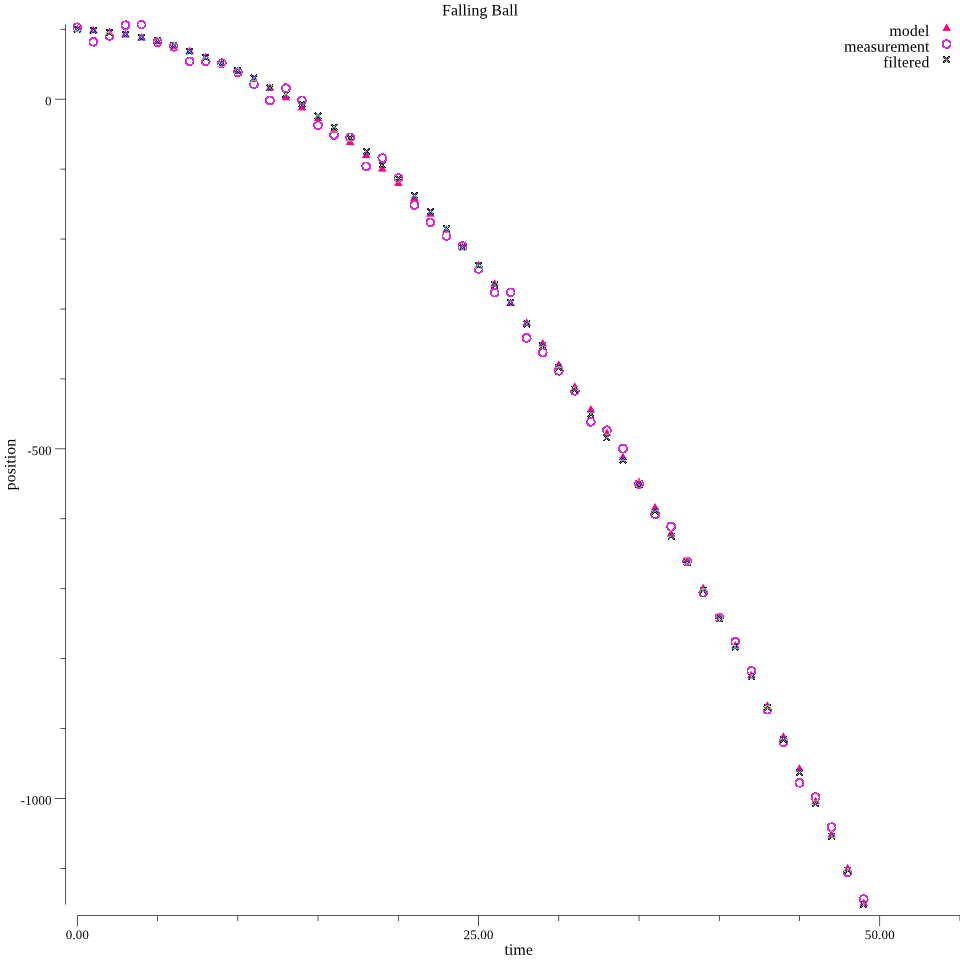
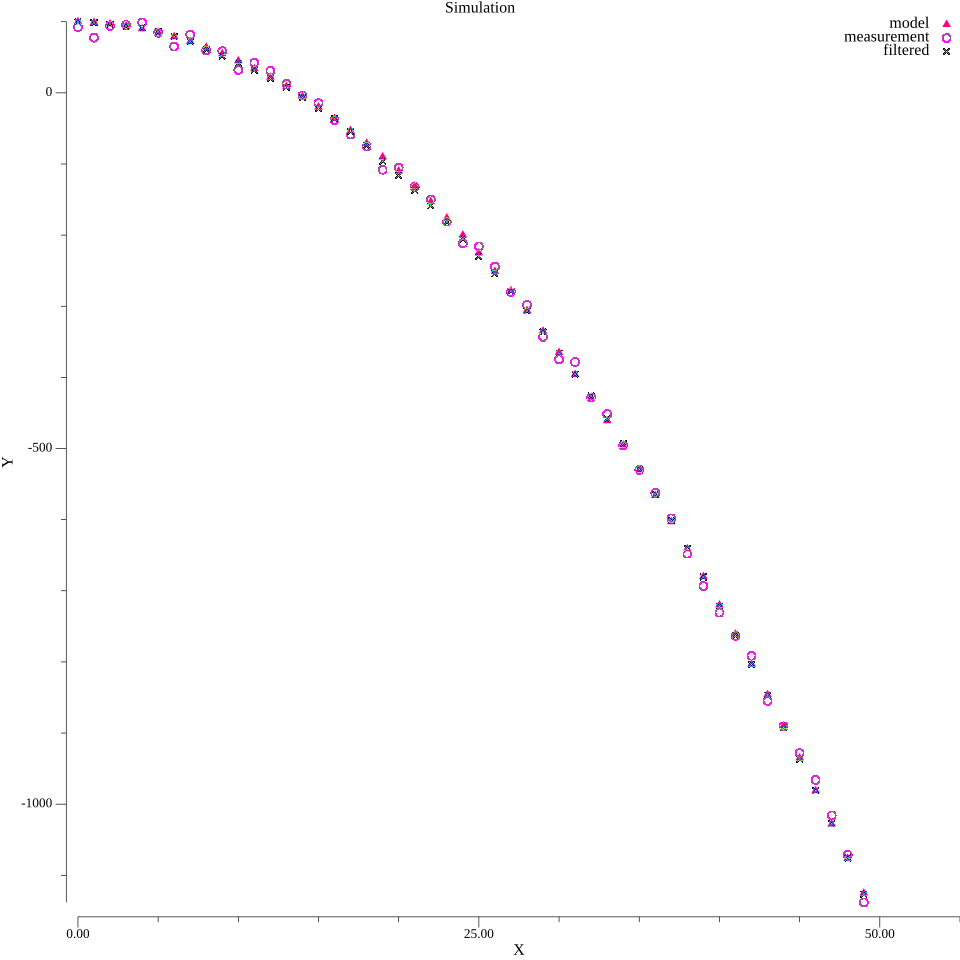
update Falling ball model to use ODEs

diff --git a/kf/kf.go b/kf/kf.go
@@ -5,6 +5,7 @@ import (
 	"log"
 
 	filter "github.com/milosgajdos/go-estimate"
+	"github.com/milosgajdos/go-estimate-examples/fallingball"
 	"github.com/milosgajdos/go-estimate/estimate"
 	"github.com/milosgajdos/go-estimate/kalman/kf"
 	"github.com/milosgajdos/go-estimate/noise"
@@ -15,42 +16,44 @@ import (
 )
 
 func main() {
-	A := mat.NewDense(2, 2, []float64{1.0, 1.0, 0.0, 1.0})
-	B := mat.NewDense(2, 1, []float64{0.5, 1.0})
-	C := mat.NewDense(1, 2, []float64{1.0, 0.0})
-	D := mat.NewDense(1, 1, []float64{0.0})
 
+	// A := mat.NewDense(2, 2, []float64{1.0, 1.0, 0.0, 1.0})
+	// B := mat.NewDense(2, 1, []float64{0.5, 1.0})
+	// C := mat.NewDense(1, 2, []float64{1.0, 0.0})
+	// D := mat.NewDense(1, 1, []float64{0.0})
+
+	// every second the system is advanced
+	dt := 1.0
 	// ball is the model of the system we will simulate
-	ball, err := sim.NewBaseModel(A, B, C, D)
-	if err != nil {
-		log.Fatalf("Failed to created ball: %v", err)
-	}
-
+	// E matrix is not implemented in go-estimate as of yet so is passed as nil
+	ball := fallingball.InputModel(dt)
+	// dimensions of system. nx is state vector length. ny is output vector length. nu is input vector length.
+	var nx, nu, ny, _ = ball.SystemDims()
 	// number of simulation steps
 	steps := 50
-
+	fmt.Println(nx, ny, nu)
 	// modelOut measurements i.e. true model output state
-	modelOut := mat.NewDense(steps, 2, nil)
+	modelOut := mat.NewDense(steps, nx, nil)
 
 	// output measurement i.e. output + error
-	measOut := mat.NewDense(steps, 2, nil)
+	measOut := mat.NewDense(steps, nx, nil)
 
 	// measurement noise used to simulate real system
-	measCov := mat.NewSymDense(1, []float64{100.0})
+	measCov := mat.NewSymDense(ny, []float64{100.0})
 	measNoise, err := noise.NewGaussian([]float64{0.0}, measCov)
 	if err != nil {
 		log.Fatalf("Failed to create measurement noise: %v", err)
 	}
 
 	// output corrected/updated by filter
-	filterOut := mat.NewDense(steps, 2, nil)
+	filterOut := mat.NewDense(steps, nx, nil)
 
 	// initial system state and control input
-	var x mat.Vector = mat.NewVecDense(2, []float64{100.0, 0.0})
-	var u mat.Vector = mat.NewVecDense(1, []float64{-1.0})
+	var x mat.Vector = mat.NewVecDense(nx, []float64{100.0, 0.0})
+	var u mat.Vector = mat.NewVecDense(nu, []float64{-1.0})
 
 	// initial state covariance
-	stateCov := mat.NewSymDense(2, []float64{0.25, 0, 0, 0.25})
+	stateCov := mat.NewSymDense(nx, []float64{0.25, 0, 0, 0.25})
 	stateNoise, err := noise.NewGaussian([]float64{0.0, 0.0}, stateCov)
 	if err != nil {
 		log.Fatalf("Failed to create state noise: %v", err)
@@ -64,7 +67,7 @@ func main() {
 
 	// filter initial estimate
 	initX := &mat.VecDense{}
-	initX.CloneVec(x)
+	initX.CloneFromVec(x)
 	initX.SetVec(0, initX.AtVec(0)+stateNoise.Sample().At(0, 0))
 	var est filter.Estimate
 	est, err = estimate.NewBase(initX)

diff --git a/fallingball/freemodel.go b/fallingball/freemodel.go
@@ -1,0 +1,59 @@
+package fallingball
+
+import (
+	"math"
+
+	"github.com/milosgajdos/go-estimate/sim"
+	"gonum.org/v1/gonum/diff/fd"
+	"gonum.org/v1/gonum/mat"
+)
+
+//  physics constants
+const (
+	// gravity for falling ball model
+	g = -10.
+	// viscous acceleration coeficient for ball (Drag force over mass)
+	ξ = 0.1
+)
+
+// FreeModel returns a control theory model for a falling ball represented by
+// the equations:
+//  dx/dt = v  (change in position equal to velocity variable)
+//  dv/dt = g - |v|*v (change in velocity equal to gravity field m)
+//
+// C matrix is [1 0], which represents observable state. The only observable
+// state in this case is position. dt is the step
+// taken to advance solution in Propagate().
+//
+// B is nil, which means there is no input vector. This model is not controllable.
+func FreeModel(dt float64) *sim.BaseModel {
+	xeq := []float64{0., 0.}
+	A := mat.NewDense(2, 2, nil)
+	fd.Jacobian(A, SODE, xeq, nil)
+
+	C := mat.NewDense(1, 2, []float64{1.0, 0.0})
+
+	b, err := sim.NewBaseModel(A, nil, C, nil, nil, dt)
+	if err != nil {
+		panic(err)
+	}
+	return b
+}
+
+// SODE is the system of differential equations that
+// represent the falling ball physical system
+//
+//  g is local gravity field expressed as a scalar
+//  ξ is viscous drag coefficient expereienced by the ball due to being in a fluid
+//
+// y is the result of said equations which are written in function of x as follows:
+//  y(t) = x'(t) = f(t, x)
+// where f is SODE. This system is not controllable as there is no input vector.
+//
+// In this case we have the following equations:
+//  dx/dt = v  (change in position equal to velocity variable)
+//  dv/dt = g - |v|*v (change in velocity equal to gravity field m)
+func SODE(y, x []float64) {
+	y[0] = x[1]
+	y[1] = g - ξ*x[1]*math.Abs(x[1])
+}

diff --git a/fallingball/inputmodel.go b/fallingball/inputmodel.go
@@ -1,0 +1,56 @@
+package fallingball
+
+import (
+	"math"
+
+	"github.com/milosgajdos/go-estimate/sim"
+	"gonum.org/v1/gonum/diff/fd"
+	"gonum.org/v1/gonum/mat"
+)
+
+// InputModel returns a control theory model for a falling ball represented by
+// the equations:
+//  dx/dt = v  (change in position equal to velocity variable)
+//  dv/dt = g - |v|*v + u (change in velocity equal to gravity field m)
+// where `u` is a input to keep ball at equilibrium (0,0). dt is the step
+// taken to advance solution in Propagate().
+//
+// C matrix is [1 0], which represents observable state. The only observable
+// state in this case is position.
+//
+// B non-zero which means this model is controllable.
+func InputModel(dt float64) *sim.BaseModel {
+	xeq := []float64{0., 0.}
+	ueq := []float64{-g} // to keep ball upright we must make opposite force of gravity
+	// calculate SystemMatrix linearizing around equilibrium
+	A := mat.NewDense(2, 2, nil)
+	fd.Jacobian(A, SODE, xeq, nil)
+	// calculate input matrix from equilibrium
+	insode := func(y, u []float64) {
+		InputSODE(y, xeq, u)
+	}
+	B := mat.NewDense(2, 1, nil)
+	fd.Jacobian(B, insode, ueq, nil)
+
+	C := mat.NewDense(1, 2, []float64{1.0, 0.0})
+
+	b, err := sim.NewBaseModel(A, B, C, nil, nil, dt)
+	if err != nil {
+		panic(err)
+	}
+	return b
+}
+
+// SODE is the system of differential equations that
+// represent the falling ball physical system
+//
+//  g is local gravity field expressed as a scalar
+//  ξ is viscous drag coefficient expereienced by the ball due to being in a fluid
+//
+// y is the result of said equations which are written in function of x as follows:
+//  y(t) = x'(t) = f(t, x)
+// where f is FreeSODE
+func InputSODE(y, x, u []float64) {
+	y[0] = x[1]
+	y[1] = g - ξ*x[1]*math.Abs(x[1]) + u[0]
+}

diff --git a/bfdynamics/bfdynamics.go b/bfdynamics/bfdynamics.go
@@ -14,6 +14,7 @@ import (
 	"time"
 
 	filter "github.com/milosgajdos/go-estimate"
+	"github.com/milosgajdos/go-estimate-examples/fallingball"
 	"github.com/milosgajdos/go-estimate/estimate"
 	"github.com/milosgajdos/go-estimate/noise"
 	"github.com/milosgajdos/go-estimate/particle/bf"
@@ -67,17 +68,8 @@ func main() {
 	runtime.LockOSThread()
 	flag.Parse()
 
-	// system dynamics matrices
-	A := mat.NewDense(2, 2, []float64{1.0, 1.0, 0.0, 1.0})
-	B := mat.NewDense(2, 1, []float64{0.5, 1.0})
-	C := mat.NewDense(1, 2, []float64{1.0, 0.0})
-	D := mat.NewDense(1, 1, []float64{0.0})
-
 	// ball is the model of the system we will simulate
-	ball, err := sim.NewBaseModel(A, B, C, D)
-	if err != nil {
-		log.Fatalf("Failed to create ball model: %v", err)
-	}
+	ball := fallingball.InputModel(1.0)
 
 	// Y coordinate of the initial system state
 	startY := 400.0
@@ -130,7 +122,7 @@ func main() {
 	// initial filter estimate: our initial guess about position of the ball
 	// Note: Our estimate will be off the model a bit
 	initX := &mat.VecDense{}
-	initX.CloneVec(x)
+	initX.CloneFromVec(x)
 	initX.AddVec(initX, stateNoise.Sample())
 	var est filter.Estimate
 	est, err = estimate.NewBase(initX)

diff --git a/ukf/ukf.go b/ukf/ukf.go
@@ -5,6 +5,7 @@ import (
 	"log"
 
 	filter "github.com/milosgajdos/go-estimate"
+	"github.com/milosgajdos/go-estimate-examples/fallingball"
 	"github.com/milosgajdos/go-estimate/estimate"
 	"github.com/milosgajdos/go-estimate/kalman/ukf"
 	"github.com/milosgajdos/go-estimate/noise"
@@ -15,16 +16,9 @@ import (
 )
 
 func main() {
-	A := mat.NewDense(2, 2, []float64{1.0, 1.0, 0.0, 1.0})
-	B := mat.NewDense(2, 1, []float64{0.5, 1.0})
-	C := mat.NewDense(1, 2, []float64{1.0, 0.0})
-	D := mat.NewDense(1, 1, []float64{0.0})
 
 	// ball is the model of the system we will simulate
-	ball, err := sim.NewBaseModel(A, B, C, D)
-	if err != nil {
-		log.Fatalf("Failed to created ball: %v", err)
-	}
+	ball := fallingball.InputModel(1.0)
 
 	// initial system state and control input
 	var x mat.Vector = mat.NewVecDense(2, []float64{100.0, 0.0})
@@ -64,7 +58,7 @@ func main() {
 
 	// filter initial estimate
 	initX := &mat.VecDense{}
-	initX.CloneVec(x)
+	initX.CloneFromVec(x)
 	initX.SetVec(0, initX.AtVec(0)+stateNoise.Sample().At(0, 0))
 	var est filter.Estimate
 	est, err = estimate.NewBase(initX)

diff --git a/ekf/ekf.go b/ekf/ekf.go
@@ -5,6 +5,7 @@ import (
 	"log"
 
 	filter "github.com/milosgajdos/go-estimate"
+	"github.com/milosgajdos/go-estimate-examples/fallingball"
 	"github.com/milosgajdos/go-estimate/estimate"
 	"github.com/milosgajdos/go-estimate/kalman/ekf"
 	"github.com/milosgajdos/go-estimate/noise"
@@ -15,16 +16,9 @@ import (
 )
 
 func main() {
-	A := mat.NewDense(2, 2, []float64{1.0, 1.0, 0.0, 1.0})
-	B := mat.NewDense(2, 1, []float64{0.5, 1.0})
-	C := mat.NewDense(1, 2, []float64{1.0, 0.0})
-	D := mat.NewDense(1, 1, []float64{0.0})
 
 	// ball is the model of the system we will simulate
-	ball, err := sim.NewBaseModel(A, B, C, D)
-	if err != nil {
-		log.Fatalf("Failed to created ball: %v", err)
-	}
+	ball := fallingball.InputModel(1.0)
 
 	// number of simulation steps
 	steps := 50
@@ -61,7 +55,7 @@ func main() {
 
 	// filter initial estimate
 	initX := &mat.VecDense{}
-	initX.CloneVec(x)
+	initX.CloneFromVec(x)
 	initX.SetVec(0, initX.AtVec(0)+stateNoise.Sample().At(0, 0))
 	var est filter.Estimate
 	est, err = estimate.NewBase(initX)

diff --git a/iekf/iekf.go b/iekf/iekf.go
@@ -5,6 +5,7 @@ import (
 	"log"
 
 	filter "github.com/milosgajdos/go-estimate"
+	"github.com/milosgajdos/go-estimate-examples/fallingball"
 	"github.com/milosgajdos/go-estimate/estimate"
 	"github.com/milosgajdos/go-estimate/kalman/ekf"
 	"github.com/milosgajdos/go-estimate/noise"
@@ -15,16 +16,8 @@ import (
 )
 
 func main() {
-	A := mat.NewDense(2, 2, []float64{1.0, 1.0, 0.0, 1.0})
-	B := mat.NewDense(2, 1, []float64{0.5, 1.0})
-	C := mat.NewDense(1, 2, []float64{1.0, 0.0})
-	D := mat.NewDense(1, 1, []float64{0.0})
-
 	// ball is the model of the system we will simulate
-	ball, err := sim.NewBaseModel(A, B, C, D)
-	if err != nil {
-		log.Fatalf("Failed to created ball: %v", err)
-	}
+	ball := fallingball.InputModel(1.0)
 
 	// number of simulation steps
 	steps := 50
@@ -61,7 +54,7 @@ func main() {
 
 	// filter initial estimate
 	initX := &mat.VecDense{}
-	initX.CloneVec(x)
+	initX.CloneFromVec(x)
 	initX.SetVec(0, initX.AtVec(0)+stateNoise.Sample().At(0, 0))
 	var est filter.Estimate
 	est, err = estimate.NewBase(initX)

diff --git a/bf/bf.go b/bf/bf.go
@@ -5,6 +5,7 @@ import (
 	"log"
 
 	filter "github.com/milosgajdos/go-estimate"
+	"github.com/milosgajdos/go-estimate-examples/fallingball"
 	"github.com/milosgajdos/go-estimate/estimate"
 	"github.com/milosgajdos/go-estimate/noise"
 	"github.com/milosgajdos/go-estimate/particle/bf"
@@ -16,16 +17,8 @@ import (
 )
 
 func main() {
-	A := mat.NewDense(2, 2, []float64{1.0, 1.0, 0.0, 1.0})
-	B := mat.NewDense(2, 1, []float64{0.5, 1.0})
-	C := mat.NewDense(1, 2, []float64{1.0, 0.0})
-	D := mat.NewDense(1, 1, []float64{0.0})
-
 	// ball is the model of the system we will simulate
-	ball, err := sim.NewBaseModel(A, B, C, D)
-	if err != nil {
-		log.Fatalf("Failed to create ball: %v", err)
-	}
+	ball := fallingball.InputModel(1.0)
 
 	// initial system state and control input
 	var x mat.Vector = mat.NewVecDense(2, []float64{100.0, 0.0})
